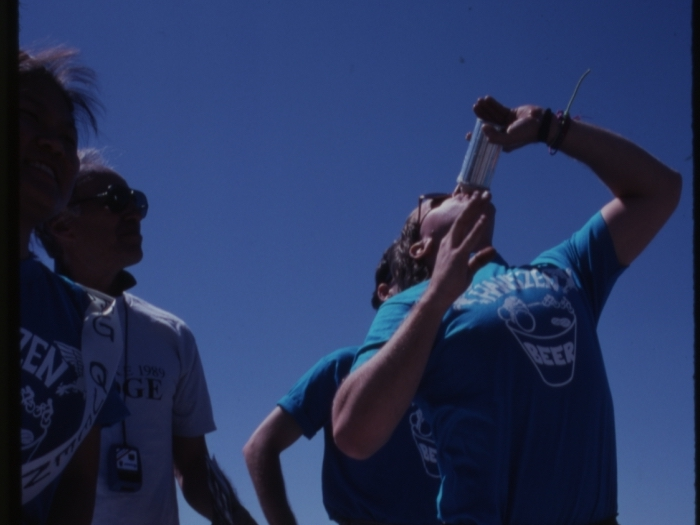
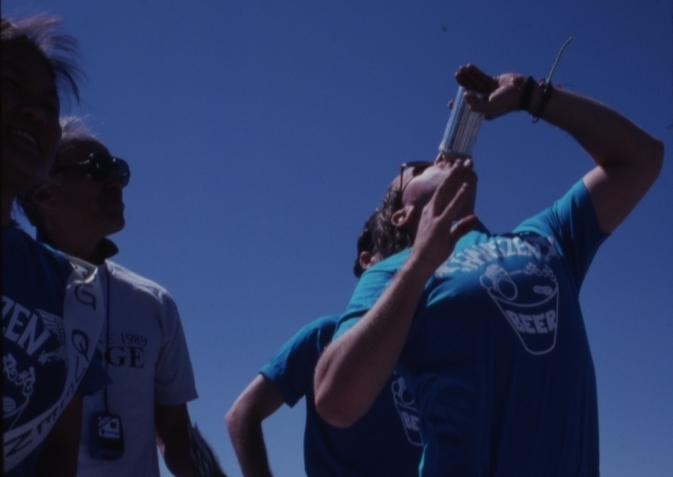
cropped pictures

diff --git a/about/beer_bike.html b/about/beer_bike.html
@@ -28,7 +28,7 @@ permalink: /about/beer_bike/
         <div class="col-md-8">
             <h3 class="light">What the heck is Beer Bike?</h3>
             <p class="text-justify">
-                Beer Bike is one of the most looked-forward-to events of the entire year at Hanszen! Run by RPC, Beer Bike is a relay race in which participants alternate biking around a track and chugging water as fast as they can.
+                Beer Bike is one of events Hanszenites look forward to the most! Run by RPC, Beer Bike is a relay race in which participants alternate biking around a track and chugging water as fast as they can.
                 The week leading up to Beer Bike is called Beer Bike Week, and there are events happening almost 24/7. It's very chaotic but oh so much fun. This year, Hanszen men seek to defend their 1st place overall finish from last semester,
                 and the women, having finished 2nd last year, are hungry to get to the top. Both teams have exceptional promise, and will be very fun to watch this year.
             </p>
@@ -137,7 +137,7 @@ permalink: /about/beer_bike/
 
         <div class="col-6 col-md-4 d-flex">
             <figure class="figure">
-                <img src="/assets/img/archives/hanszen_sweep_1991.jpg" class="figure-img img-fluid rounded">
+                <img src="/assets/img/archives/hanszen_sweep_1991 cropped.jpg" class="figure-img img-fluid rounded">
                 <figcaption class="figure-caption">Hanszenites celebrating victoriously, c. 1991</figcaption>
             </figure>
         </div>
